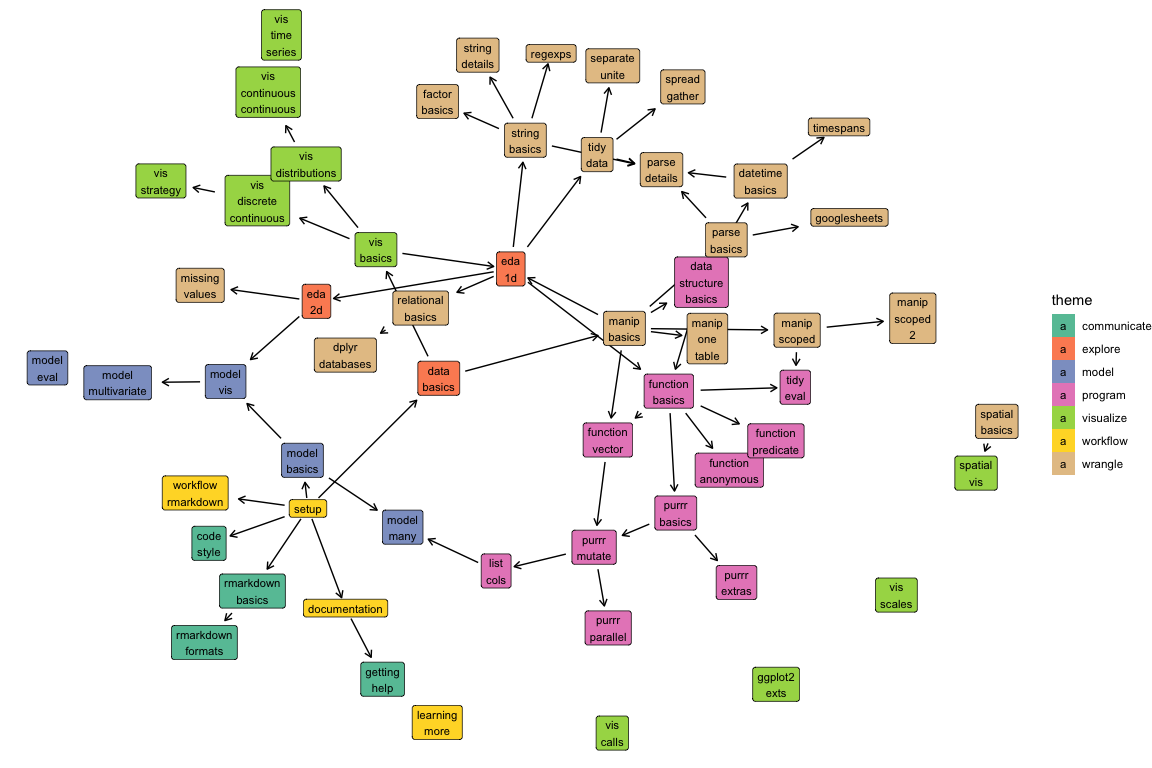
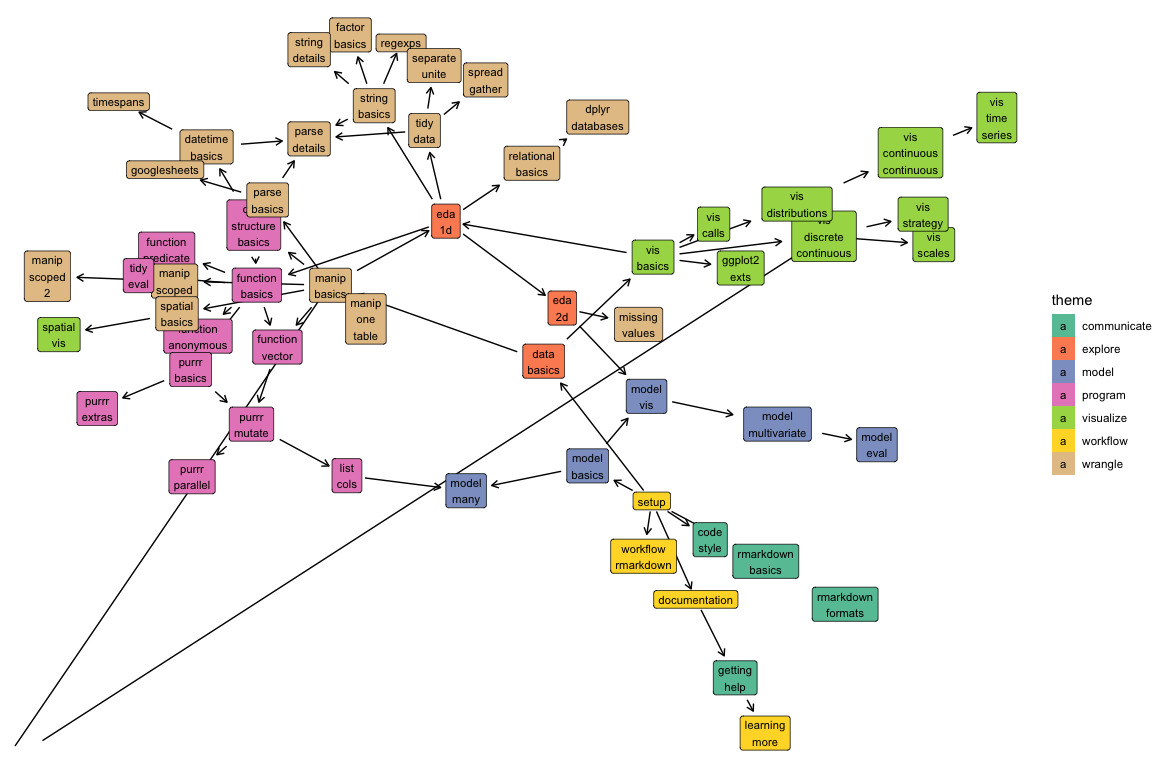
Add unit dependencies

diff --git a/docs/manip-basics.md b/docs/manip-basics.md
@@ -6,7 +6,7 @@ title: Manipulation basics
 
 # Manipulation basics <small class='wrangle'>[wrangle]</small>
 <small>(Builds on: [Data basics](data-basics.md))</small>  
-<small>(Leads to: [Data structure basics](data-structure-basics.md), [Exploratory data analysis (1D)](eda-1d.md), [Vector functions](function-vector.md), [Other single table verbs](manip-one-table.md), [Scoped verb basics](manip-scoped.md), [Parsing basics](parse-basics.md))</small>
+<small>(Leads to: [Data structure basics](data-structure-basics.md), [Exploratory data analysis (1D)](eda-1d.md), [Vector functions](function-vector.md), [Other single table verbs](manip-one-table.md), [Scoped verb basics](manip-scoped.md), [Parsing basics](parse-basics.md), [Spatial basics](spatial-basics.md))</small>
 
 
 ``` r

diff --git a/docs/vis-basics.md b/docs/vis-basics.md
@@ -6,7 +6,7 @@ title: Visualization basics
 
 # Visualization basics <small class='visualize'>[visualize]</small>
 <small>(Builds on: [Data basics](data-basics.md))</small>  
-<small>(Leads to: [Exploratory data analysis (1D)](eda-1d.md), [Discrete-continuous relationships](vis-discrete-continuous.md), [Distributions](vis-distributions.md))</small>
+<small>(Leads to: [Exploratory data analysis (1D)](eda-1d.md), [ggplot2 extensions](ggplot2-exts.md), [ggplot2 calls](vis-calls.md), [Discrete-continuous relationships](vis-discrete-continuous.md), [Distributions](vis-distributions.md))</small>
 
 Data visualization is one of the most important tools of data science.
 It's also a great place to start learning a programming language because

diff --git a/docs/function-anonymous.md b/docs/function-anonymous.md
@@ -5,7 +5,8 @@ title: Anonymous functions
 <!-- Generated automatically from function-anonymous.yml. Do not edit by hand -->
 
 # Anonymous functions <small class='program'>[program]</small>
-<small>(Builds on: [Function basics](function-basics.md))</small>
+<small>(Builds on: [Function basics](function-basics.md))</small>  
+<small>(Leads to: [purrr basics](purrr-basics.md))</small>
 
 
 Most functions you'll encounter are named. **Named functions** are functions that are assigned to a variable. The variable allows you to call the function wherever you'd like without repeating the original code.

diff --git a/docs/vis-discrete-continuous.md b/docs/vis-discrete-continuous.md
@@ -6,7 +6,7 @@ title: Discrete-continuous relationships
 
 # Discrete-continuous relationships <small class='visualize'>[visualize]</small>
 <small>(Builds on: [Visualization basics](vis-basics.md))</small>  
-<small>(Leads to: [Distributions](vis-distributions.md), [General strategy](vis-strategy.md))</small>
+<small>(Leads to: [Distributions](vis-distributions.md), [Scales](vis-scales.md), [General strategy](vis-strategy.md))</small>
 
 Now that you know the basics of ggplot2, you can begin diving into specific
 visualization situations. In this reading, you'll learn about visualizing

diff --git a/docs/purrr-basics.md b/docs/purrr-basics.md
@@ -5,7 +5,7 @@ title: purrr basics
 <!-- Generated automatically from purrr-basics.yml. Do not edit by hand -->
 
 # purrr basics <small class='program'>[program]</small>
-<small>(Builds on: [Function basics](function-basics.md))</small>  
+<small>(Builds on: [Function basics](function-basics.md), [Anonymous functions](function-anonymous.md))</small>  
 <small>(Leads to: [Other purrr functions](purrr-extras.md), [purrr inside mutate](purrr-mutate.md))</small>
 
 

diff --git a/docs/ggplot2-exts.md b/docs/ggplot2-exts.md
@@ -5,7 +5,7 @@ title: ggplot2 extensions
 <!-- Generated automatically from ggplot2-exts.yml. Do not edit by hand -->
 
 # ggplot2 extensions <small class='visualize'>[visualize]</small>
-
+<small>(Builds on: [Visualization basics](vis-basics.md))</small>
 
 ggplot2 is not an island; it also has a rich ecosystem of extensions that
 solve a wide range of problems that base ggplot2 does not. In this reading

diff --git a/docs/tidy-eval.md b/docs/tidy-eval.md
@@ -174,12 +174,12 @@ fun_1 <- function(x) quo(x)
 fun_1(a + b)
 #> <quosure>
 #> expr: ^x
-#> env:  0x7fc4d9108260
+#> env:  0x7fe899143ec8
 fun_2 <- function(x) enquo(x)
 fun_2(a + b)
 #> <quosure>
 #> expr: ^a + b
-#> env:  0x7fc4d489f510
+#> env:  0x7fe8930aa710
 ```
 
 As a rule of thumb, use `quo()` when you're experimenting interactively at the console, and `enquo()` when you're creating a function.

diff --git a/docs/vis-scales.md b/docs/vis-scales.md
@@ -5,7 +5,7 @@ title: Scales
 <!-- Generated automatically from vis-scales.yml. Do not edit by hand -->
 
 # Scales <small class='visualize'>[visualize]</small>
-
+<small>(Builds on: [Discrete-continuous relationships](vis-discrete-continuous.md))</small>
 
 You've already learned about transformation functions that you use with
 `dplyr::mutate()`. They take one (or more) vectors and return a transformed

diff --git a/docs/vis-calls.md b/docs/vis-calls.md
@@ -5,7 +5,7 @@ title: ggplot2 calls
 <!-- Generated automatically from vis-calls.yml. Do not edit by hand -->
 
 # ggplot2 calls <small class='visualize'>[visualize]</small>
-
+<small>(Builds on: [Visualization basics](vis-basics.md))</small>
 
 As you get more familiar with ggplot2, you can start to rely more
 on the position of arguments and less on explicit names. This allows

diff --git a/docs/spatial-basics.md b/docs/spatial-basics.md
@@ -5,6 +5,7 @@ title: Spatial basics
 <!-- Generated automatically from spatial-basics.yml. Do not edit by hand -->
 
 # Spatial basics <small class='wrangle'>[wrangle]</small>
+<small>(Builds on: [Manipulation basics](manip-basics.md))</small>  
 <small>(Leads to: [Spatial visualization](spatial-vis.md))</small>
 
 

diff --git a/docs/learning-more.md b/docs/learning-more.md
@@ -25,4 +25,3 @@ build up a regular practice of
 
     * [tidyverse.org blog](https://www.tidyverse.org/articles/): articles and
       descriptions of new packages releases.
-
